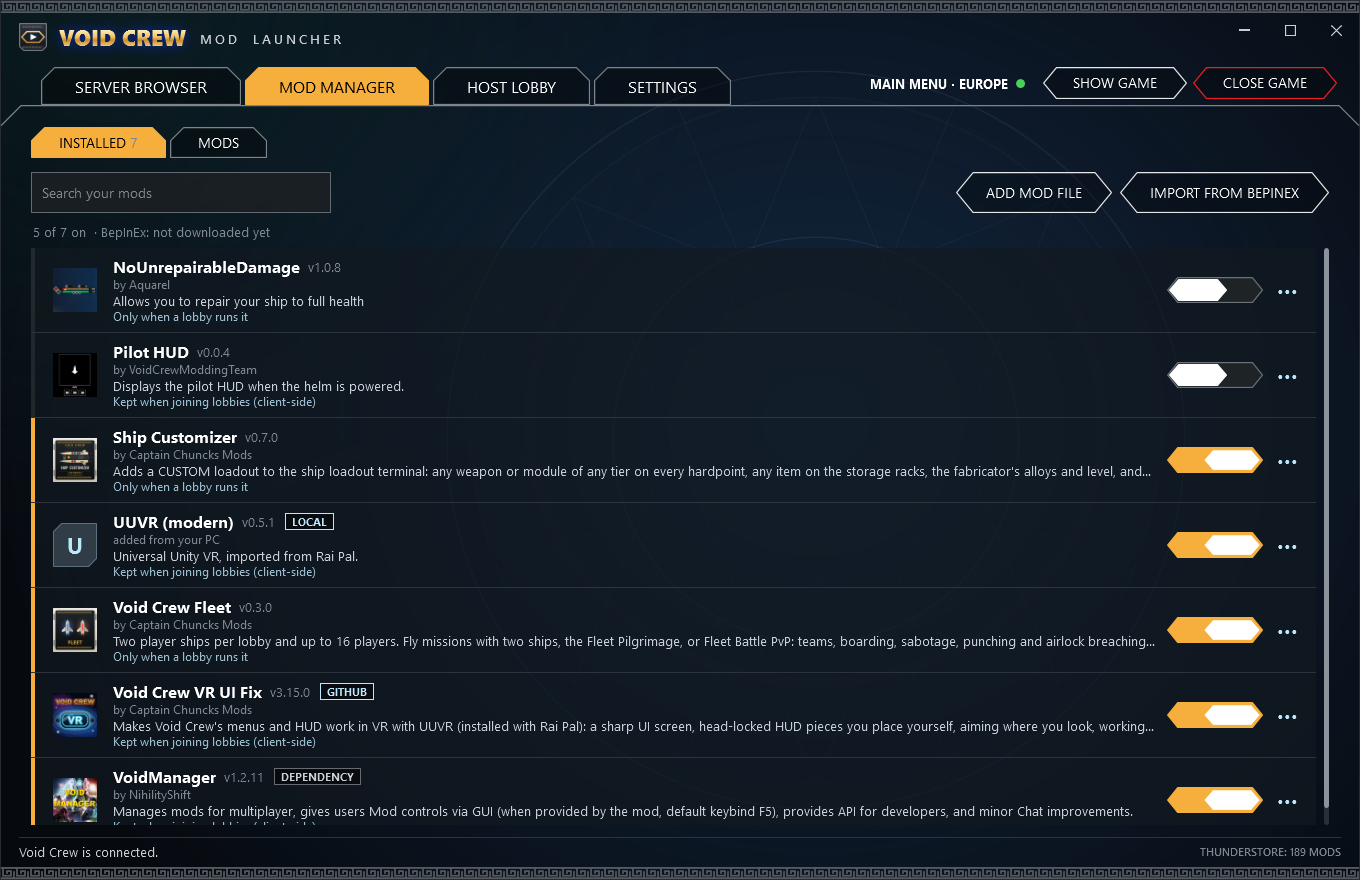
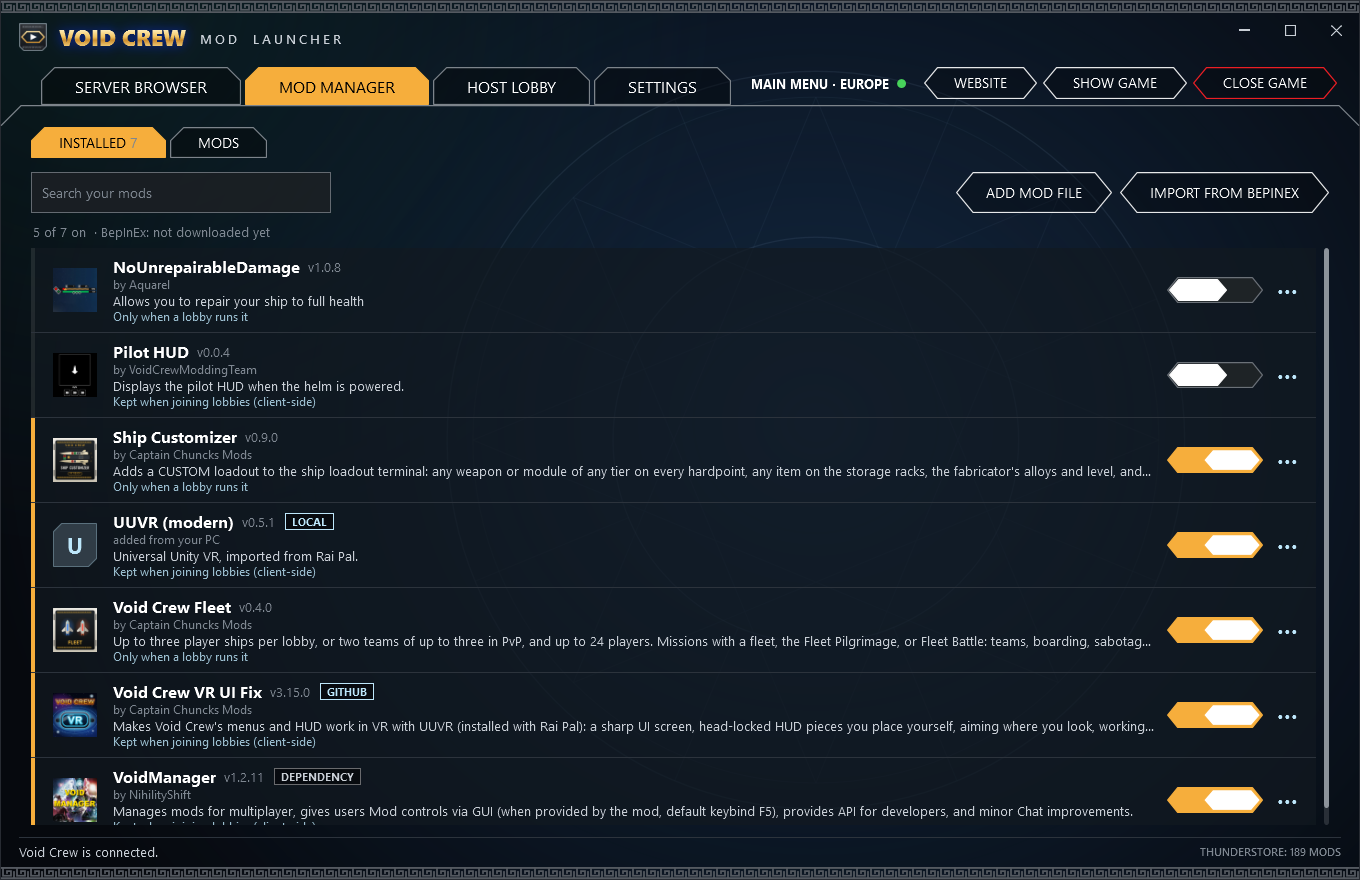
0.6.0: voidcrewmod.com before Thunderstore, WEBSITE button
- WebsiteClient reads voidcrewmod.com/api/v1/package/ (Thunderstore's v1
  JSON, plus an optional sha256 per version), cached, quiet when the site
  is down.
- PackageIndex.Prefer puts the site's packages first; Thunderstore fills in
  versions the site lacks. Site downloads are checked against their sha256.
- WEBSITE badge in MODS; WEBSITE button in the top bar.

Changed region(s): [[0.0926, 0.7057, 0.8338, 0.7364], [0.5559, 0.0614, 0.7721, 0.1227]]

diff --git a/src/VoidCrewModLauncher/Views/ModsView.xaml b/src/VoidCrewModLauncher/Views/ModsView.xaml
@@ -176,6 +176,9 @@
                                             <Border Style="{StaticResource Badge}" Background="#E6101420" BorderBrush="{StaticResource LightBlue}" Margin="8,0,0,0" Visibility="{Binding LatestFromGitHub, Converter={StaticResource Show}}">
                                                 <TextBlock Text="GITHUB" Style="{StaticResource BadgeText}" Foreground="{StaticResource LightBlue}" />
                                             </Border>
+                                            <Border Style="{StaticResource Badge}" Background="#E6101420" BorderBrush="{StaticResource Orange}" Margin="8,0,0,0" Visibility="{Binding LatestFromWebsite, Converter={StaticResource Show}}">
+                                                <TextBlock Text="WEBSITE" Style="{StaticResource BadgeText}" Foreground="{StaticResource Orange}" />
+                                            </Border>
                                         </StackPanel>
                                         <TextBlock Text="{Binding Description}" FontSize="13" Opacity="0.85" TextWrapping="Wrap" MaxHeight="38" TextTrimming="CharacterEllipsis" Margin="0,2,0,4" />
                                         <ItemsControl ItemsSource="{Binding Categories}">

diff --git a/src/VoidCrewModLauncher/MainWindow.xaml b/src/VoidCrewModLauncher/MainWindow.xaml
@@ -130,6 +130,7 @@
                             </Ellipse.Style>
                         </Ellipse>
                     </StackPanel>
+                    <Button Style="{StaticResource HexButton}" Content="WEBSITE" Command="{Binding OpenWebsiteCommand}" Margin="0,0,6,0" />
                     <Button Style="{StaticResource PrimaryButton}" Content="PLAY" Command="{Binding PlayCommand}" MinWidth="128" FontSize="15"
                             Visibility="{Binding GameRunning, Converter={StaticResource Hide}}" />
                     <Button Style="{StaticResource HexButton}" Content="SHOW GAME" Command="{Binding FocusGameCommand}" Margin="0,0,6,0"

diff --git a/tests/VoidCrewModLauncher.Tests/WebsiteTests.cs b/tests/VoidCrewModLauncher.Tests/WebsiteTests.cs
@@ -1,0 +1,76 @@
+using System.Security.Cryptography;
+using System.Text.Json;
+using VoidCrewModLauncher.Core;
+using VoidCrewModLauncher.Core.Mods;
+using VoidCrewModLauncher.Core.Thunderstore;
+using VoidCrewModLauncher.Core.Website;
+
+namespace VoidCrewModLauncher.Tests;
+
+public class WebsiteTests
+{
+    private static readonly JsonSerializerOptions Snake = new() { PropertyNamingPolicy = JsonNamingPolicy.SnakeCaseLower };
+
+    private static FakeHttp Thunderstore(FakeHttp http, params TsPackage[] packages) => http
+        .On(ThunderstoreClient.ListingIndexUrl, FakeHttp.Gzip("[\"https://cdn.test/chunk.blob\"]"))
+        .On("https://cdn.test/chunk.blob", FakeHttp.Gzip(JsonSerializer.Serialize(packages, Snake)));
+
+    private static TsPackage SiteFleet(string version, byte[] zip, string? sha = null)
+    {
+        TsPackage package = Packages.Make("Captain_Chuncks_Mods", "Void_Crew_Fleet", new[] { version });
+        package.PackageUrl = "https://voidcrewmod.com/mods/void-crew-fleet";
+        package.Versions[0].DownloadUrl = $"https://voidcrewmod.com/download/fleet-{version}.zip";
+        package.Versions[0].Sha256 = sha ?? Convert.ToHexString(SHA256.HashData(zip)).ToLowerInvariant();
+        return package;
+    }
+
+    [Fact]
+    public async Task The_websites_mods_come_before_Thunderstores()
+    {
+        using var temp = new TempFolder();
+        byte[] zip = FakeHttp.Zip(("manifest.json", "{\"name\":\"Void_Crew_Fleet\",\"version_number\":\"0.4.0\"}"), ("VoidCrewFleet.dll", "from the website"));
+        TsPackage onlyOnSite = Packages.Make("Someone", "Site_Only", new[] { "1.0.0" });
+        var http = Thunderstore(new FakeHttp(), Packages.Make("Captain_Chuncks_Mods", "Void_Crew_Fleet", new[] { "0.4.0", "0.3.0" }))
+            .On(WebsiteClient.PackageListUrl, JsonSerializer.Serialize(new[] { SiteFleet("0.4.0", zip), onlyOnSite }, Snake))
+            .On("https://voidcrewmod.com/download/fleet-0.4.0.zip", zip);
+        using var service = new LauncherService(temp.AppPaths(), http);
+        service.Settings.GitHubUpdates = false;
+        await service.RefreshPackagesAsync(true);
+
+        TsPackage fleet = service.Index.Find("Captain_Chuncks_Mods-Void_Crew_Fleet")!;
+        Assert.True(fleet.Latest!.FromWebsite);
+        Assert.Equal("https://voidcrewmod.com/mods/void-crew-fleet", fleet.PackageUrl);
+        Assert.Equal(new[] { "0.4.0", "0.3.0" }, fleet.Versions.Select(v => v.VersionNumber));
+        Assert.False(fleet.Version("0.3.0")!.FromWebsite);
+        Assert.Contains(service.Index.Mods, p => p.FullName == "Someone-Site_Only");
+
+        await service.InstallModAsync("Captain_Chuncks_Mods-Void_Crew_Fleet", null);
+        string folder = service.Store.VersionDirectory("Captain_Chuncks_Mods-Void_Crew_Fleet", "0.4.0");
+        Assert.Equal("from the website", File.ReadAllText(Path.Combine(folder, "VoidCrewFleet.dll")));
+    }
+
+    [Fact]
+    public async Task A_website_download_that_doesnt_match_its_checksum_is_refused()
+    {
+        using var temp = new TempFolder();
+        byte[] zip = FakeHttp.Zip(("VoidCrewFleet.dll", "tampered"));
+        var http = Thunderstore(new FakeHttp())
+            .On(WebsiteClient.PackageListUrl, JsonSerializer.Serialize(new[] { SiteFleet("0.4.0", zip, new string('0', 64)) }, Snake))
+            .On("https://voidcrewmod.com/download/fleet-0.4.0.zip", zip);
+        using var service = new LauncherService(temp.AppPaths(), http);
+        await service.RefreshPackagesAsync(true);
+        await Assert.ThrowsAsync<InvalidDataException>(() => service.InstallModAsync("Captain_Chuncks_Mods-Void_Crew_Fleet", null));
+        Assert.False(service.Store.Has("Captain_Chuncks_Mods-Void_Crew_Fleet", "0.4.0"));
+        Assert.Null(service.Library.Find("Captain_Chuncks_Mods-Void_Crew_Fleet"));
+    }
+
+    [Fact]
+    public async Task Without_the_website_Thunderstore_covers_everything()
+    {
+        using var temp = new TempFolder();
+        var http = Thunderstore(new FakeHttp(), Packages.Make("Captain_Chuncks_Mods", "Void_Crew_Fleet", new[] { "0.4.0" }));
+        using var service = new LauncherService(temp.AppPaths(), http);
+        await service.RefreshPackagesAsync(true);
+        Assert.False(service.Index.Find("Captain_Chuncks_Mods-Void_Crew_Fleet")!.Latest!.FromWebsite);
+    }
+}

diff --git a/src/VoidCrewModLauncher.Core/Website/WebsiteClient.cs b/src/VoidCrewModLauncher.Core/Website/WebsiteClient.cs
@@ -1,0 +1,90 @@
+using System.Text.Json;
+using VoidCrewModLauncher.Core.Thunderstore;
+
+namespace VoidCrewModLauncher.Core.Website;
+
+/// <summary>
+/// voidcrewmod.com, the user's own Void Crew mod site, which the launcher prefers over Thunderstore. Its package list
+/// (<see cref="PackageListUrl"/>) has the same JSON as Thunderstore's v1 list (snake_case: name, full_name, owner,
+/// package_url, categories, versions with version_number, download_url, dependencies, ...), and each version may add
+/// "sha256", which is checked after download. While the site has no list (or can't be reached), the last list read is
+/// used, else none: Thunderstore covers everything then.
+/// </summary>
+public sealed class WebsiteClient : IDisposable
+{
+    public const string SiteVariable = "VCML_SITE_URL";
+    private static readonly TimeSpan CacheAge = TimeSpan.FromMinutes(5);
+
+    private static readonly JsonSerializerOptions Json = new()
+    {
+        PropertyNamingPolicy = JsonNamingPolicy.SnakeCaseLower,
+        PropertyNameCaseInsensitive = true,
+    };
+
+    private readonly AppPaths _paths;
+    private readonly HttpClient _http;
+    private bool _toldUnavailable;
+
+    public WebsiteClient(AppPaths paths, HttpMessageHandler? handler = null)
+    {
+        _paths = paths;
+        _http = handler == null ? new HttpClient() : new HttpClient(handler, disposeHandler: false);
+        _http.Timeout = TimeSpan.FromSeconds(15);
+        _http.DefaultRequestHeaders.UserAgent.ParseAdd(AppInfo.UserAgent);
+    }
+
+    /// <summary>The site's address (VCML_SITE_URL can point at a test copy).</summary>
+    public static string Site => (Environment.GetEnvironmentVariable(SiteVariable) is { Length: > 0 } custom ? custom : AppInfo.WebsiteUrl).TrimEnd('/');
+
+    public static string PackageListUrl => $"{Site}/api/v1/package/";
+
+    private string CacheFile => Path.Combine(_paths.Cache, "website-packages.json");
+
+    /// <summary>The site's packages, every version marked as from the website. Never throws for a site that's down.</summary>
+    public async Task<List<TsPackage>> GetPackagesAsync(bool refresh, CancellationToken cancel = default)
+    {
+        if (!refresh && File.Exists(CacheFile) && DateTime.UtcNow - File.GetLastWriteTimeUtc(CacheFile) < CacheAge && Read(await File.ReadAllBytesAsync(CacheFile, cancel)) is { } cached)
+        {
+            return cached;
+        }
+        try
+        {
+            using HttpResponseMessage response = await _http.GetAsync(PackageListUrl, cancel);
+            response.EnsureSuccessStatusCode();
+            byte[] body = await response.Content.ReadAsByteArrayAsync(cancel);
+            List<TsPackage> packages = Read(body) ?? throw new InvalidDataException("the package list isn't JSON the launcher can read");
+            Directory.CreateDirectory(_paths.Cache);
+            await File.WriteAllBytesAsync(CacheFile, body, cancel);
+            AppLog.Info($"voidcrewmod.com: {packages.Count} packages.");
+            _toldUnavailable = false;
+            return packages;
+        }
+        catch (Exception e) when (e is not OperationCanceledException || !cancel.IsCancellationRequested)
+        {
+            if (!_toldUnavailable) AppLog.Info($"voidcrewmod.com's package list isn't available ({e.Message}); using Thunderstore.");
+            _toldUnavailable = true;
+            return File.Exists(CacheFile) && Read(await File.ReadAllBytesAsync(CacheFile, cancel)) is { } stale ? stale : new List<TsPackage>();
+        }
+    }
+
+    private static List<TsPackage>? Read(byte[] body)
+    {
+        try
+        {
+            List<TsPackage>? packages = JsonSerializer.Deserialize<List<TsPackage>>(body, Json);
+            if (packages == null) return null;
+            foreach (TsVersion version in packages.SelectMany(p => p.Versions))
+            {
+                version.FromWebsite = true;
+                version.Sha256 = string.IsNullOrWhiteSpace(version.Sha256) ? null : version.Sha256.Trim().ToLowerInvariant();
+            }
+            return packages.Where(p => p.Versions.Count > 0 && PackageReference.Parse(p.FullName) != null).ToList();
+        }
+        catch (JsonException)
+        {
+            return null;
+        }
+    }
+
+    public void Dispose() => _http.Dispose();
+}

diff --git a/src/VoidCrewModLauncher.Core/LauncherService.cs b/src/VoidCrewModLauncher.Core/LauncherService.cs
@@ -5,6 +5,7 @@ using VoidCrewModLauncher.Core.Lobbies;
 using VoidCrewModLauncher.Core.Mods;
 using VoidCrewModLauncher.Core.Steam;
 using VoidCrewModLauncher.Core.Thunderstore;
+using VoidCrewModLauncher.Core.Website;
 using VoidCrewModLauncher.Protocol;
 
 namespace VoidCrewModLauncher.Core;
@@ -45,6 +46,7 @@ public sealed class LauncherService : IDisposable
         Settings = LauncherSettings.Load(paths);
         Thunderstore = new ThunderstoreClient(paths, httpHandler);
         GitHub = new GitHubClient(paths, httpHandler);
+        Website = new WebsiteClient(paths, httpHandler);
         Library = new ModLibrary(paths);
         Store = new PackageStore(paths, Thunderstore, GitHub);
         Mods = new ModManager(Library, Store);
@@ -58,6 +60,7 @@ public sealed class LauncherService : IDisposable
     public LauncherSettings Settings { get; }
     public ThunderstoreClient Thunderstore { get; }
     public GitHubClient GitHub { get; }
+    public WebsiteClient Website { get; }
     public ModLibrary Library { get; }
     public PackageStore Store { get; }
     public ModManager Mods { get; }
@@ -109,8 +112,21 @@ public sealed class LauncherService : IDisposable
     /// </summary>
     public async Task RefreshPackagesAsync(bool force, CancellationToken cancel = default)
     {
-        List<TsPackage> packages = await Thunderstore.GetPackagesAsync(force, cancel);
-        var index = new PackageIndex(packages);
+        Task<List<TsPackage>> siteTask = Website.GetPackagesAsync(force, cancel);
+        List<TsPackage> packages;
+        try
+        {
+            packages = await Thunderstore.GetPackagesAsync(force, cancel);
+        }
+        catch (Exception e) when (e is not OperationCanceledException)
+        {
+            // Thunderstore is down: voidcrewmod.com's mods still work when it answered.
+            if ((await siteTask).Count == 0) throw;
+            AppLog.Warn($"Thunderstore couldn't be reached ({e.Message}); using voidcrewmod.com's mods only.");
+            packages = new List<TsPackage>();
+        }
+        // voidcrewmod.com first: its versions and downloads win over Thunderstore's for a mod both have.
+        var index = new PackageIndex(packages).Prefer(await siteTask);
         List<string> installed = Library.Mods.Where(m => m.Source == ModSource.Thunderstore).Select(m => m.Id).ToList();
         if (!Thunderstore.IsOffline) index = index.Merge(await Thunderstore.GetCurrentAsync(installed, cancel));
         index = index.Merge(await NewerOnGitHubAsync(installed.Select(index.Find).OfType<TsPackage>(), cancel));
@@ -565,6 +581,7 @@ public sealed class LauncherService : IDisposable
         Bridge.Dispose();
         Thunderstore.Dispose();
         GitHub.Dispose();
+        Website.Dispose();
     }
 }
 

diff --git a/src/VoidCrewModLauncher.Core/Thunderstore/PackageIndex.cs b/src/VoidCrewModLauncher.Core/Thunderstore/PackageIndex.cs
@@ -27,6 +27,23 @@ public sealed class PackageIndex
     public static PackageIndex Empty { get; } = new(Array.Empty<TsPackage>());
 
     /// <summary>
+    /// This index with <paramref name="preferred"/> packages (voidcrewmod.com's) put first: a package both have takes the
+    /// preferred one's details and versions, keeping only versions the preferred source doesn't have; new ones are added.
+    /// </summary>
+    public PackageIndex Prefer(IReadOnlyCollection<TsPackage> preferred)
+    {
+        if (preferred.Count == 0) return this;
+        var byId = preferred.Where(p => p.Versions.Count > 0).GroupBy(p => p.FullName, StringComparer.OrdinalIgnoreCase)
+            .ToDictionary(g => g.Key, g => g.First(), StringComparer.OrdinalIgnoreCase);
+        TsPackage Combine(TsPackage mine, TsPackage? other) => other == null
+            ? mine
+            : mine.WithVersions(other.Versions.Where(v => mine.Version(v.VersionNumber) == null));
+        var result = All.Select(p => byId.TryGetValue(p.FullName, out TsPackage? site) ? Combine(site, p) : p).ToList();
+        result.AddRange(byId.Values.Where(p => !_byId.ContainsKey(p.FullName)));
+        return new PackageIndex(result);
+    }
+
+    /// <summary>
     /// This index with up-to-date packages merged in (from Thunderstore's per-package API): versions it doesn't have are
     /// added to their package, and packages it doesn't have are added. Returns this same index when nothing is new.
     /// </summary>

diff --git a/src/VoidCrewModLauncher.Core/Mods/PackageStore.cs b/src/VoidCrewModLauncher.Core/Mods/PackageStore.cs
@@ -56,6 +56,7 @@ public sealed class PackageStore
             string zip = await _thunderstore.DownloadAsync(version, progress, cancel);
             try
             {
+                if (version.Sha256 != null) await CheckSha256Async(zip, version, cancel);
                 await Task.Run(() => Unpack(zip, target), cancel);
             }
             finally
@@ -142,6 +143,17 @@ public sealed class PackageStore
         if (root.TryGetProperty("dependencies", out JsonElement dependencies) && dependencies.ValueKind == JsonValueKind.Array)
         {
             version.Dependencies = dependencies.EnumerateArray().Where(d => d.ValueKind == JsonValueKind.String).Select(d => d.GetString()!).ToList();
+        }
+    }
+
+    /// <summary>A download whose source lists its SHA-256 (voidcrewmod.com) must match it.</summary>
+    private static async Task CheckSha256Async(string file, TsVersion version, CancellationToken cancel)
+    {
+        await using FileStream stream = File.OpenRead(file);
+        string actual = Convert.ToHexString(await System.Security.Cryptography.SHA256.HashDataAsync(stream, cancel)).ToLowerInvariant();
+        if (actual != version.Sha256)
+        {
+            throw new InvalidDataException($"{version.FullName} doesn't match the checksum its site lists; not installing it.");
         }
     }
 

diff --git a/src/VoidCrewModLauncher.Core/Thunderstore/ThunderstoreModels.cs b/src/VoidCrewModLauncher.Core/Thunderstore/ThunderstoreModels.cs
@@ -31,6 +31,10 @@ public sealed class TsPackage
     [JsonIgnore]
     public bool IsGitHubOnly { get; init; }
 
+    /// <summary>The newest version comes from voidcrewmod.com.</summary>
+    [JsonIgnore]
+    public bool LatestFromWebsite => Latest?.FromWebsite == true;
+
     [JsonIgnore]
     public long TotalDownloads => Versions.Sum(v => (long)v.Downloads);
 
@@ -72,6 +76,13 @@ public sealed class TsVersion
     /// <summary>Set when this version comes from the mod's GitHub releases instead of Thunderstore.</summary>
     [JsonIgnore]
     public GitHubSource? GitHub { get; set; }
+
+    /// <summary>The download's SHA-256 (lower-case hex), when the source lists it (voidcrewmod.com does); checked after download.</summary>
+    public string? Sha256 { get; set; }
+
+    /// <summary>This version comes from voidcrewmod.com, which the launcher prefers over Thunderstore.</summary>
+    [JsonIgnore]
+    public bool FromWebsite { get; set; }
 }
 
 /// <summary>A Thunderstore dependency string: Namespace-Name-1.2.3.</summary>

diff --git a/src/VoidCrewModLauncher/ViewModels/ModItemViewModels.cs b/src/VoidCrewModLauncher/ViewModels/ModItemViewModels.cs
@@ -112,6 +112,9 @@ public partial class PackageViewModel : ObservableObject
 
     /// <summary>The newest version is a GitHub release (Thunderstore doesn't have it yet).</summary>
     public bool LatestFromGitHub => Package.Latest?.GitHub != null;
+
+    /// <summary>The newest version comes from voidcrewmod.com.</summary>
+    public bool LatestFromWebsite => Package.LatestFromWebsite;
     public string Downloads => Format.Count(Package.TotalDownloads);
     public long DownloadCount => Package.TotalDownloads;
     public int Rating => Package.RatingScore;

diff --git a/src/VoidCrewModLauncher.Core/AppInfo.cs b/src/VoidCrewModLauncher.Core/AppInfo.cs
@@ -13,6 +13,9 @@ public static class AppInfo
     public const string ThunderstoreCommunity = "void-crew";
     public const string RepositoryUrl = "https://github.com/CaptainChunck/VoidCrewModLauncher";
 
+    /// <summary>The Void Crew mod site: its mods come before Thunderstore's.</summary>
+    public const string WebsiteUrl = "https://voidcrewmod.com";
+
     public static string Version { get; } = ReadVersion();
 
     public static string UserAgent => $"VoidCrewModLauncher/{Version} (+{RepositoryUrl})";

diff --git a/src/VoidCrewModLauncher/ViewModels/MainViewModel.cs b/src/VoidCrewModLauncher/ViewModels/MainViewModel.cs
@@ -262,6 +262,10 @@ public partial class MainViewModel : ObservableObject
         });
     }
 
+    /// <summary>voidcrewmod.com in the browser.</summary>
+    [RelayCommand]
+    private void OpenWebsite() => Format.Open(AppInfo.WebsiteUrl);
+
     [RelayCommand(CanExecute = nameof(GameRunning))]
     private void FocusGame()
     {

diff --git a/src/VoidCrewModLauncher.Bridge/Plugin.cs b/src/VoidCrewModLauncher.Bridge/Plugin.cs
@@ -20,7 +20,7 @@ namespace VoidCrewModLauncher.Bridge
     public class Plugin : BaseUnityPlugin
     {
         public const string Name = "Void Crew Mod Launcher Bridge";
-        public const string Version = "0.5.0";
+        public const string Version = "0.6.0";
 
         private void Awake()
         {
